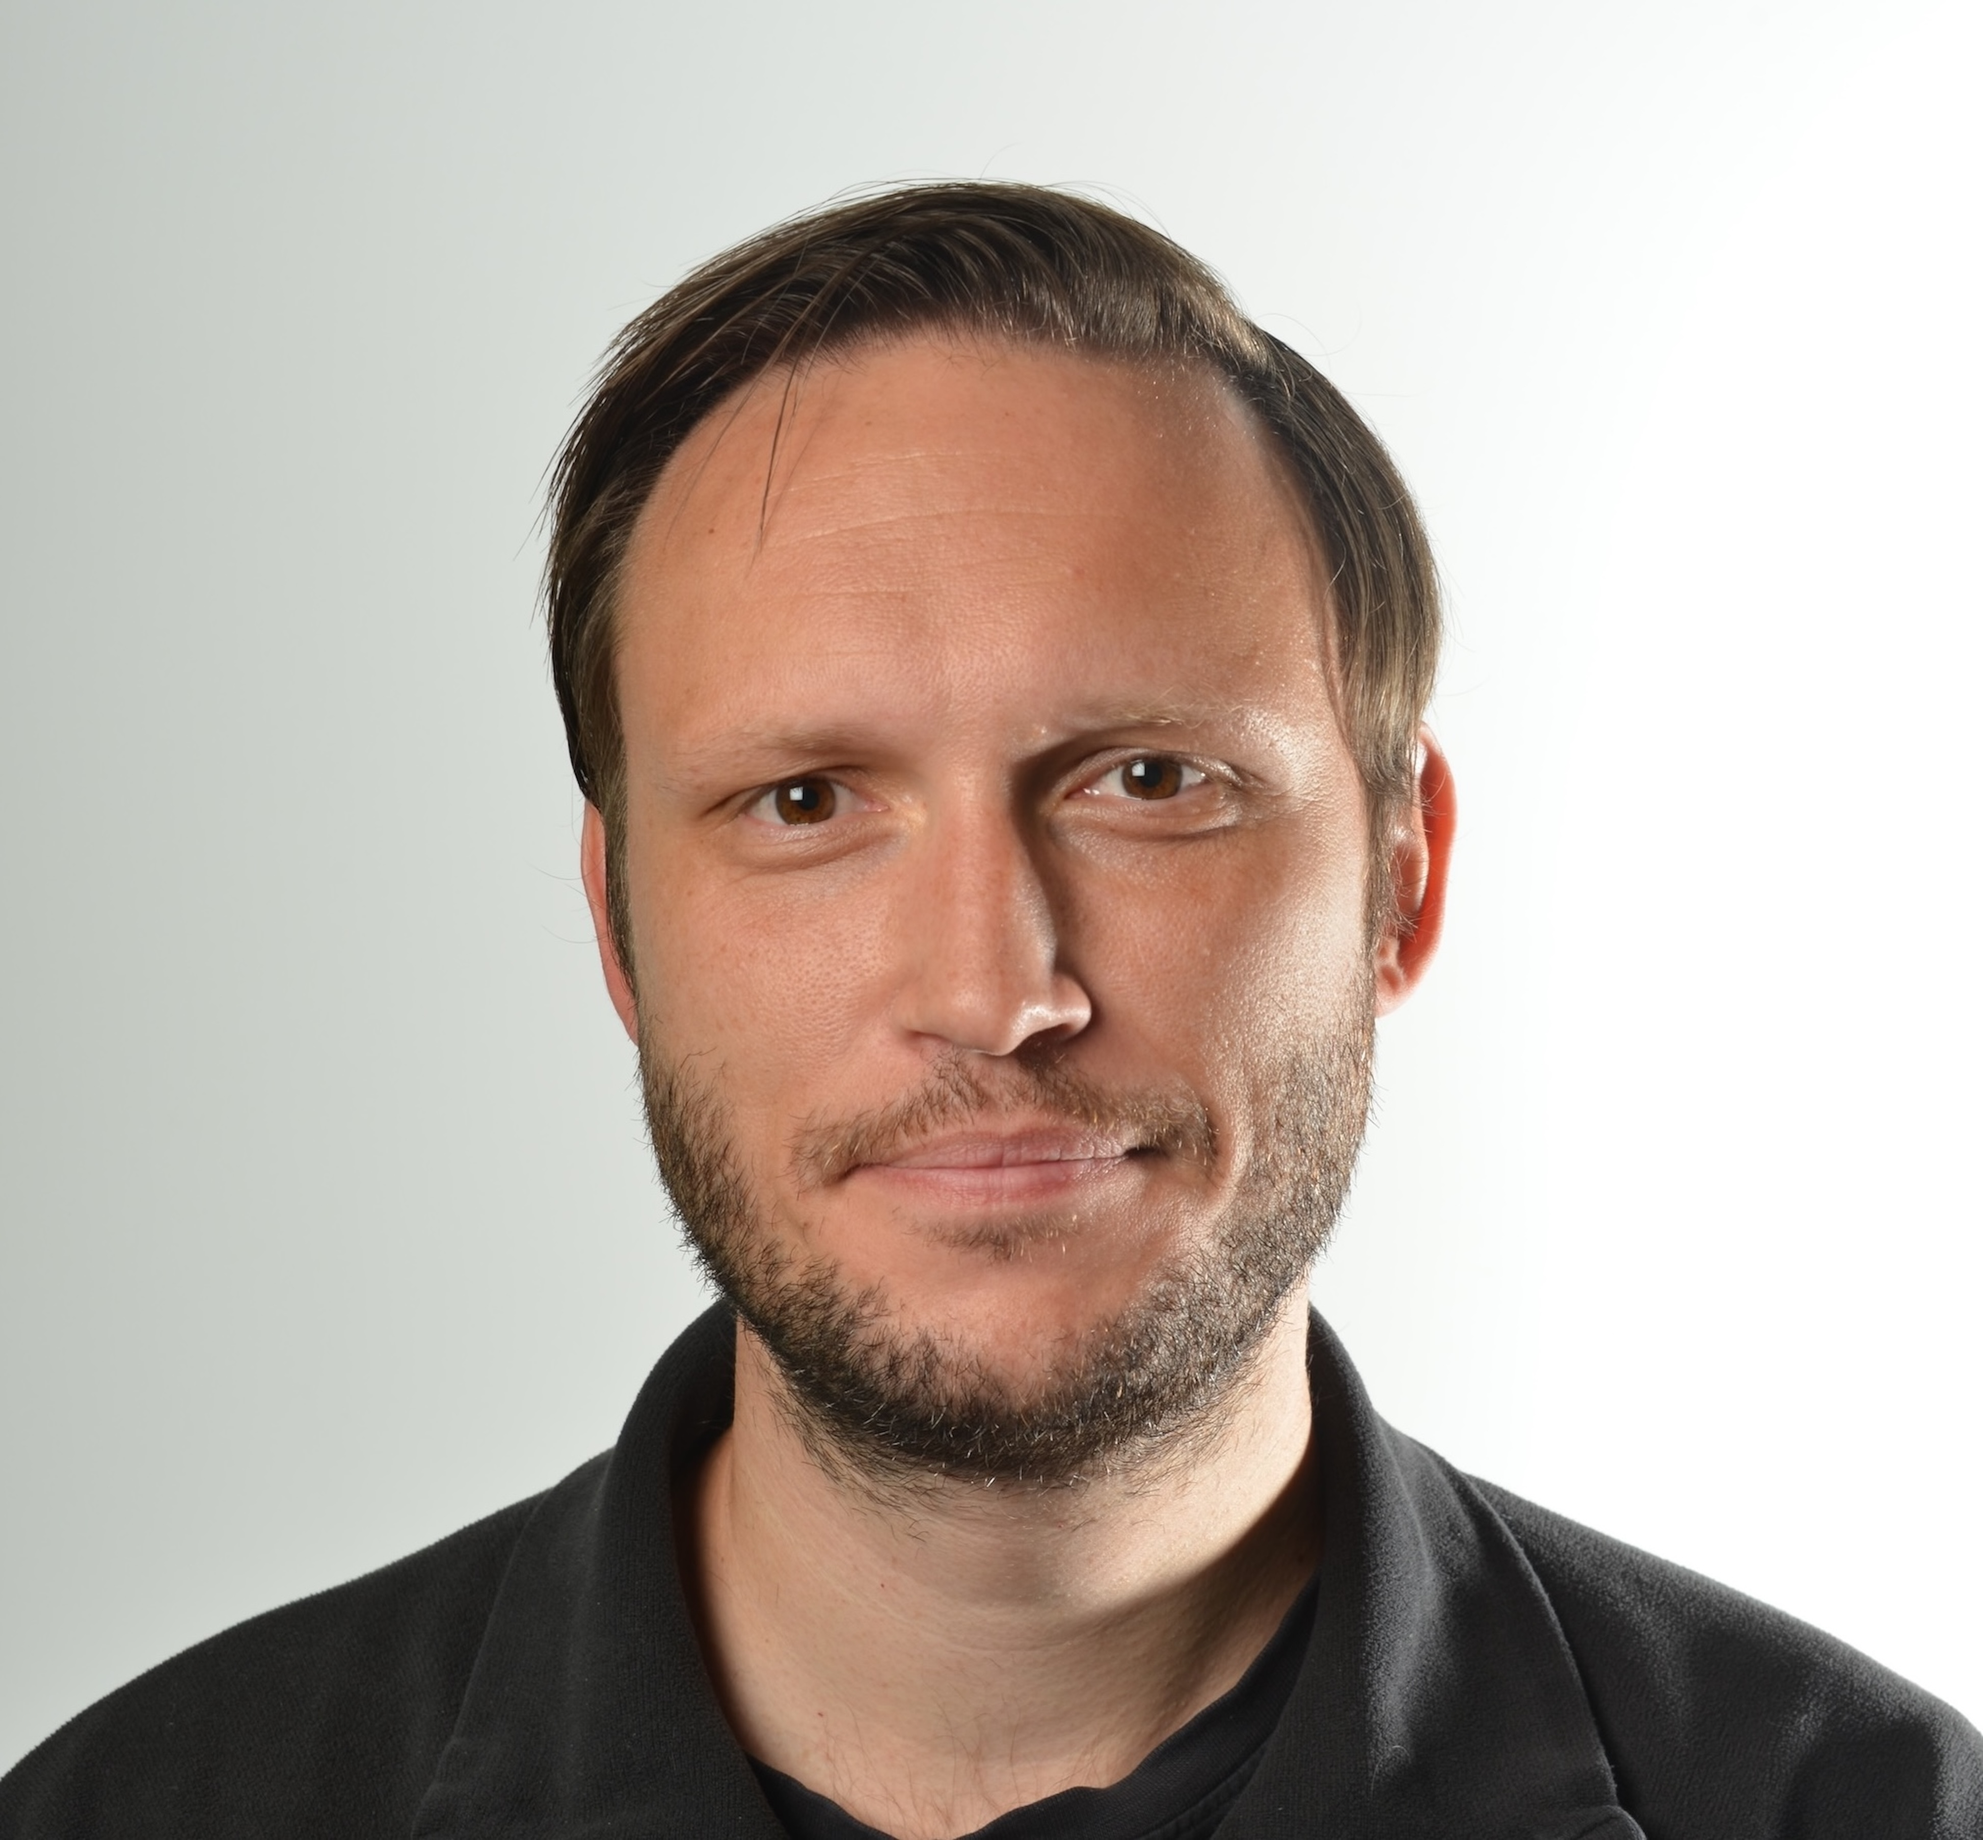
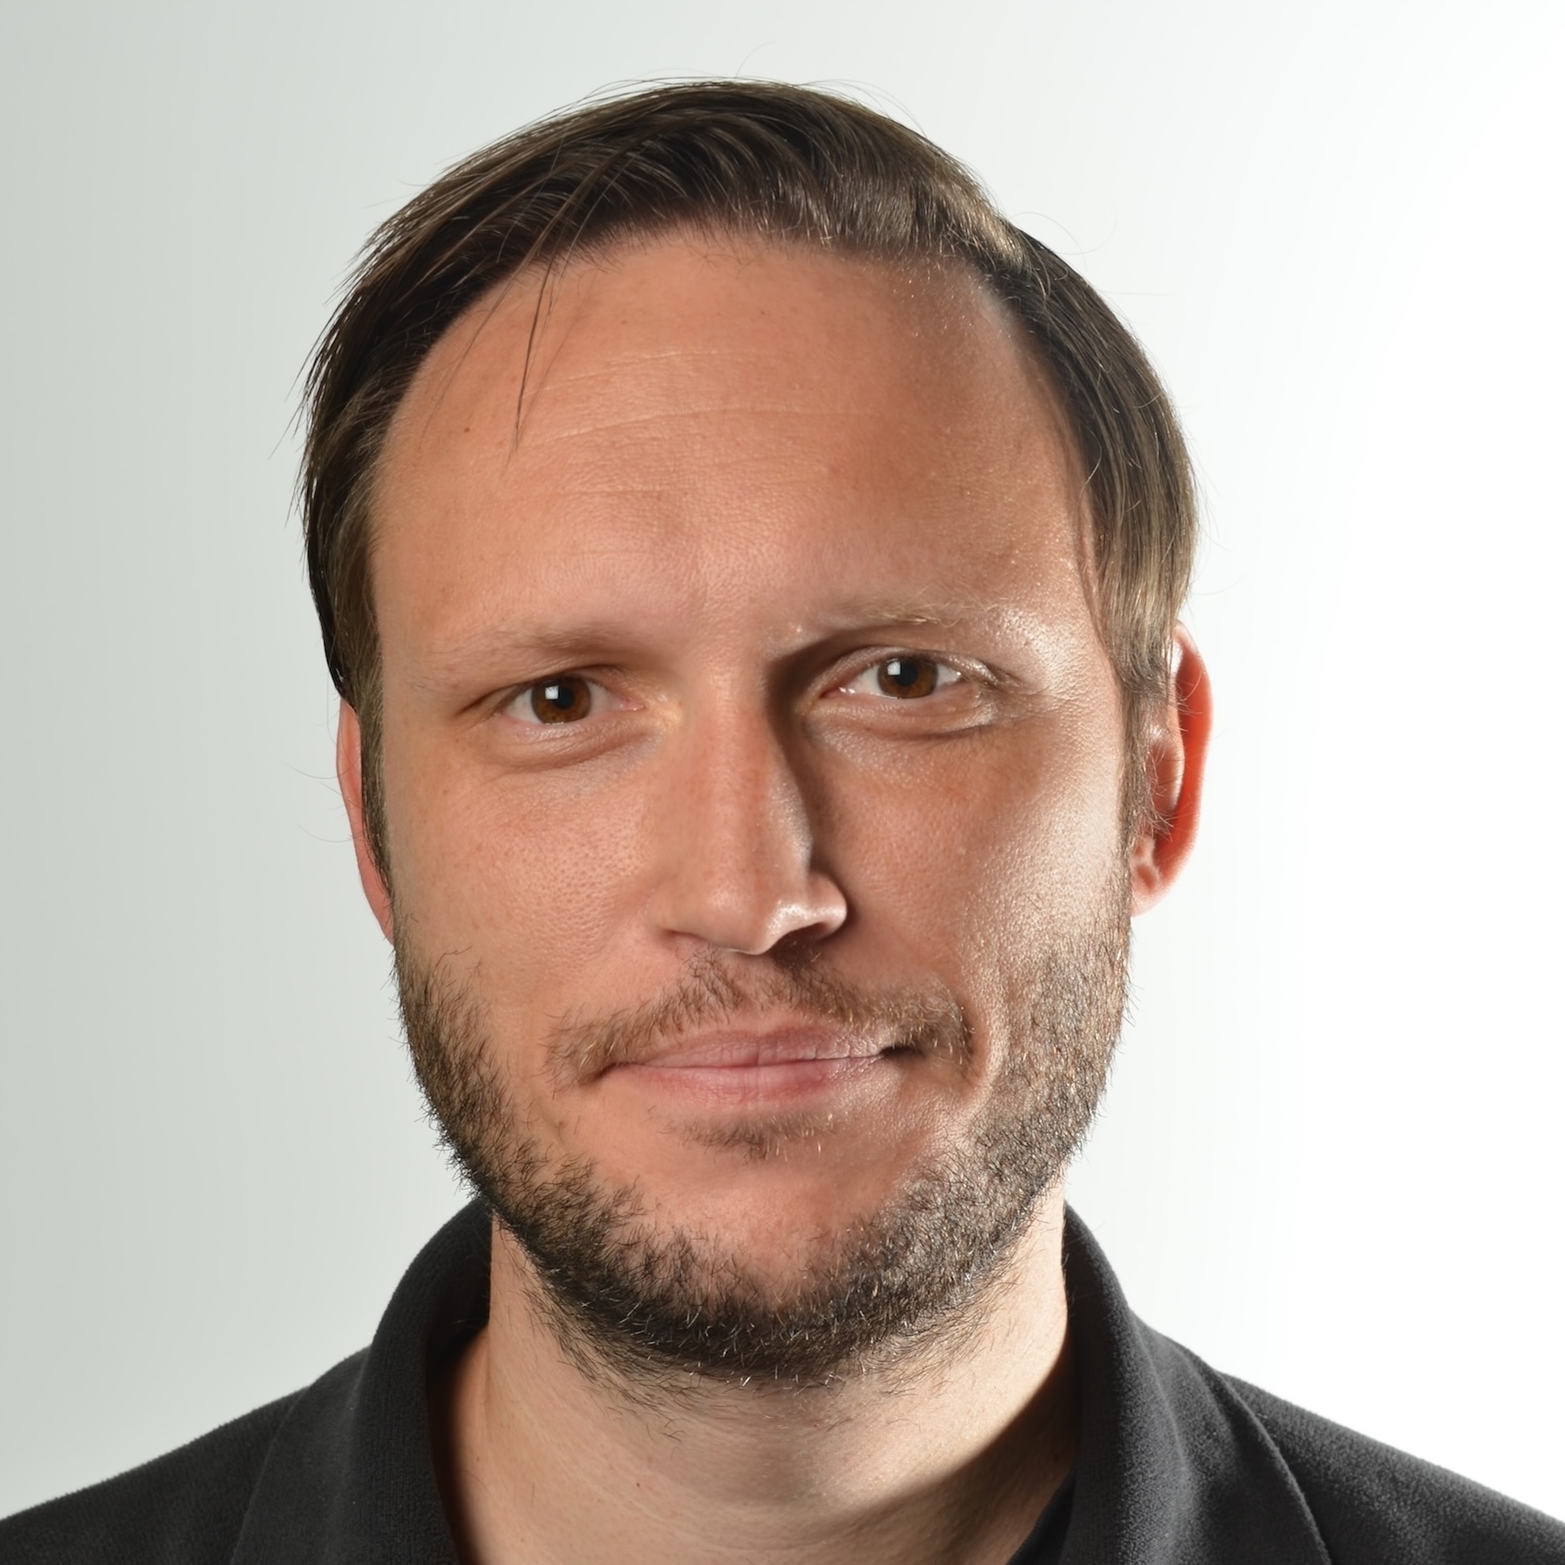
docs: update team info

diff --git a/docs/global.css b/docs/global.css
@@ -240,8 +240,8 @@ figure {
 	width: fit-content;
 }
 figure img {
-	height: 100px;
-	width: auto;
+	height: 300px;
+	width: 300px;
 	object-fit: contain;
 	margin-bottom: 1rem;
 	display: block;

diff --git a/docs/guides/oauth-header-migration-guide/index.md b/docs/guides/oauth-header-migration-guide/index.md
@@ -31,6 +31,10 @@ Currently both header formats exist (with the same values), so you can safely te
 You choose when to switch by adding the `radix.equinor.com/preview-oauth2-proxy-mode` annotation to your _radixconfig.yaml_ file.
 The value for this annotation is a comma-separated list of environments where you want to enable proxy mode. You can also set a wildcard (`*`) to cover all environments.
 
+:::danger Important
+After adding the annotation you need to deploy your application to the affected environments again.
+:::
+
 ```yaml
 apiVersion: radix.equinor.com/v1
 kind: RadixApplication
@@ -40,7 +44,6 @@ metadata:
     radix.equinor.com/preview-oauth2-proxy-mode: "dev,qa"
 ```
 
-After adding the annotation you need to deploy your application to the affected environments again.
 
 # What to expect during the switch
 There may be a couple of seconds of downtime during the switch.
